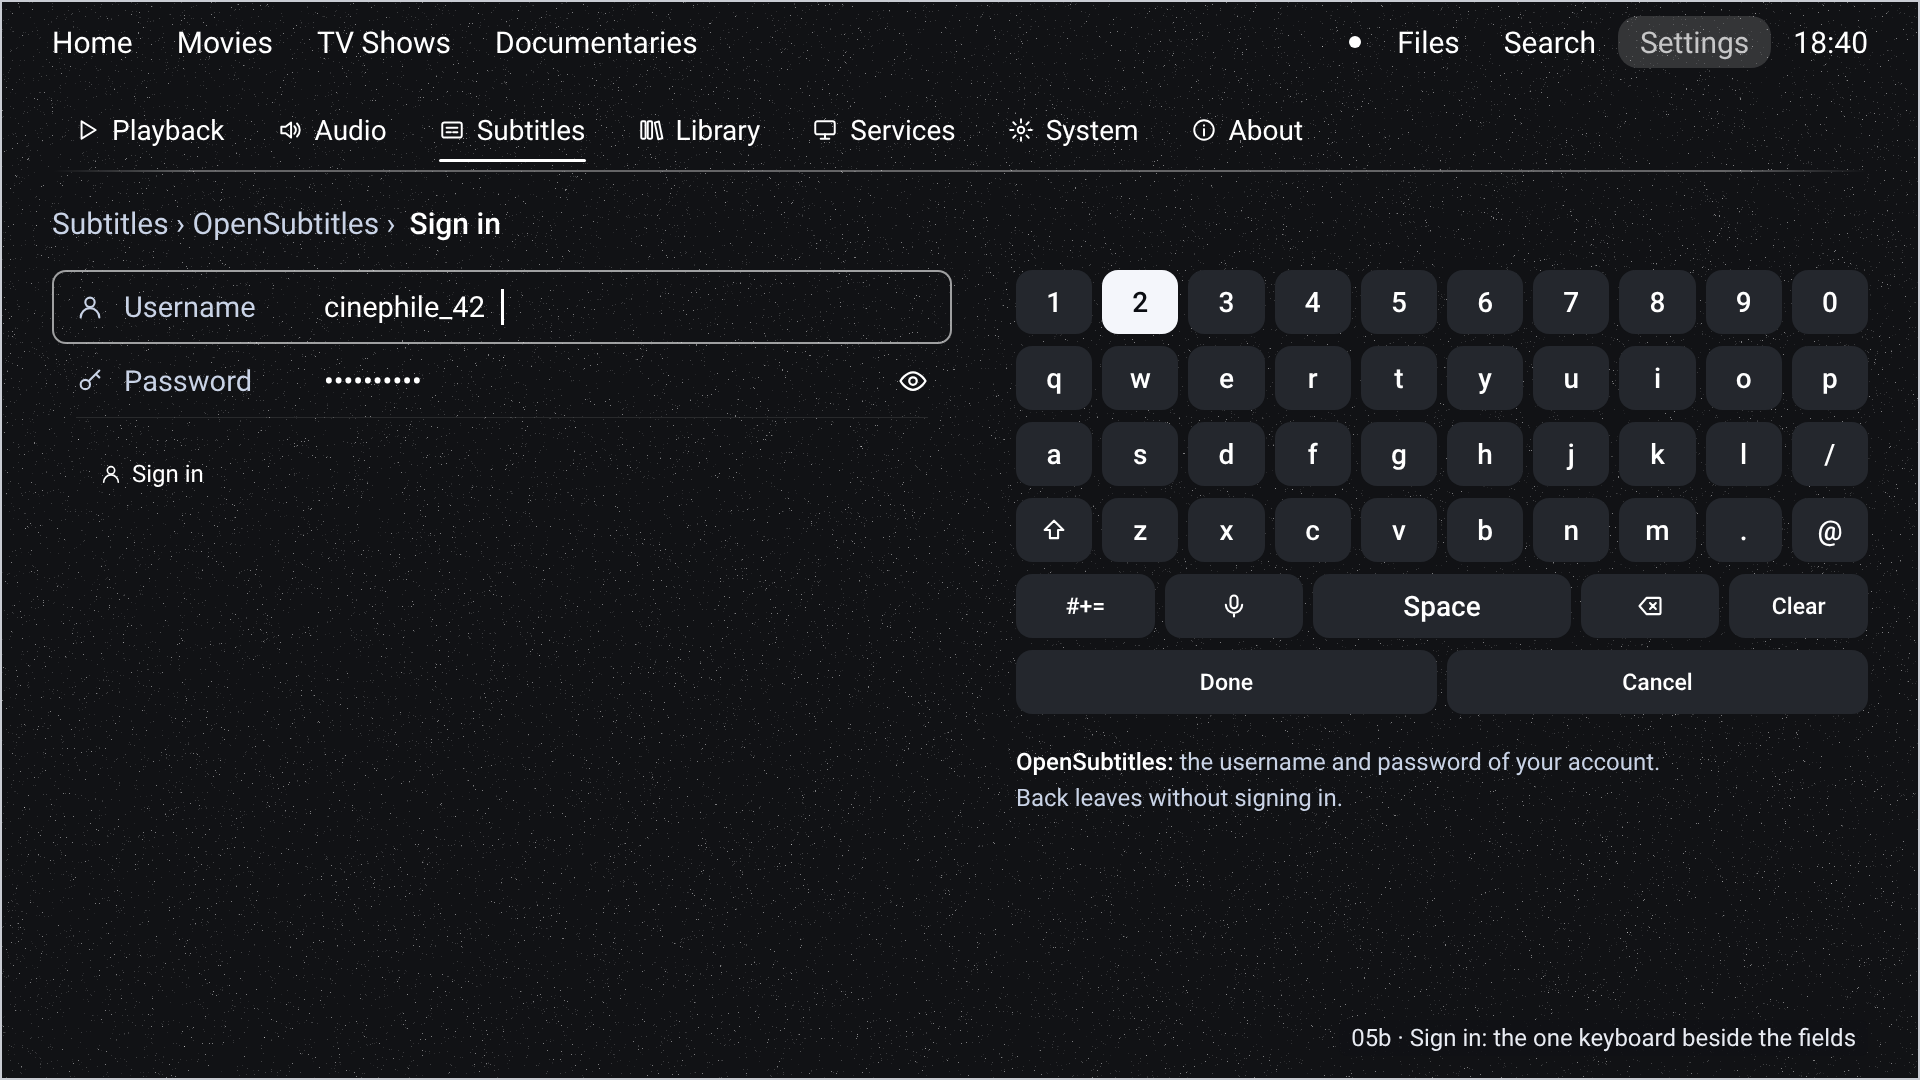
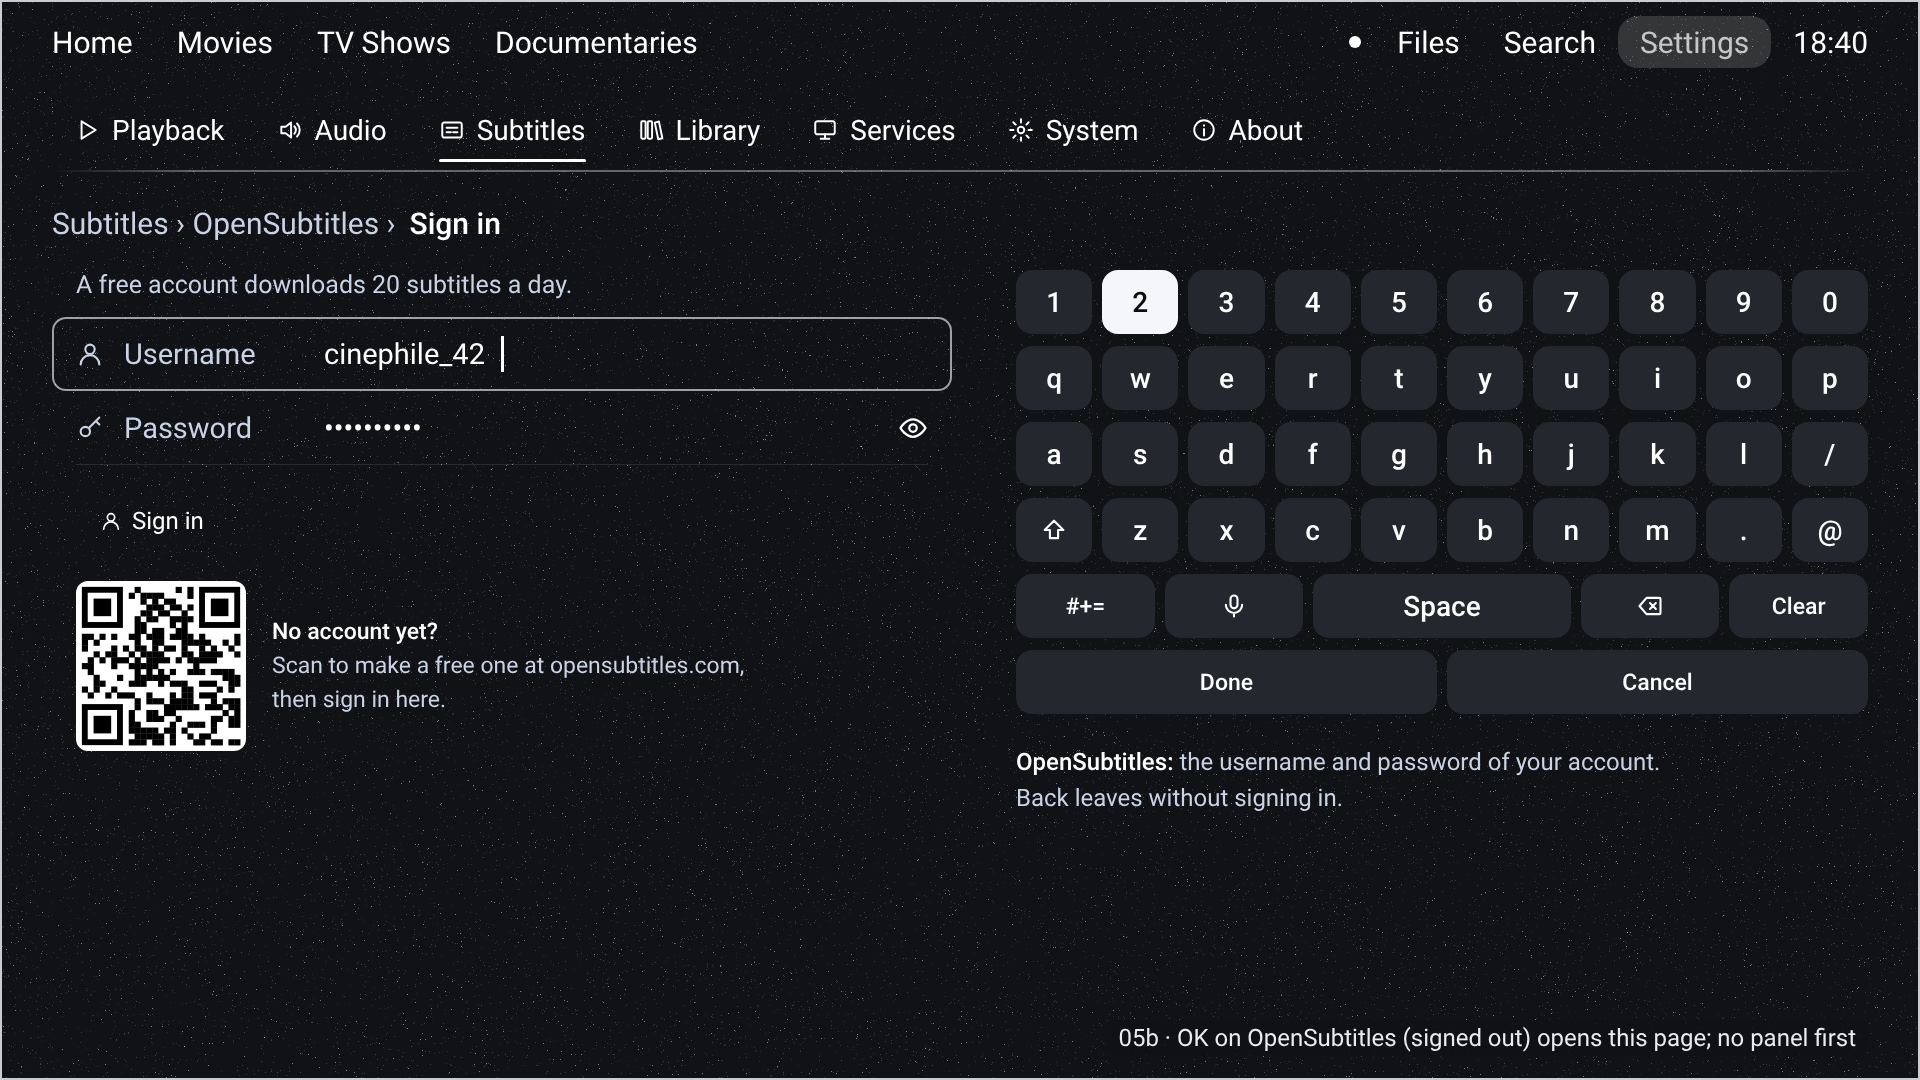
Settings round 2 approved: subtitles on by default, sign-in page without the panel

diff --git a/docs/design/proposals/settings-v3/render.js b/docs/design/proposals/settings-v3/render.js
@@ -393,7 +393,7 @@ function s02() {
 function s03() {
   return page('Subtitles', [
     [I.cc, 'When To Show', [
-      { ic: I.cc, n: 'Show subtitles', l: 'Turn on when a video starts', k: 'sw', v: false },
+      { ic: I.cc, n: 'Show subtitles', l: 'Turn on when a video starts', k: 'sw', v: true },
       { ic: I.full, n: 'Full subtitles in your own language', l: 'When the audio is in your language', k: 'sw', v: true },
       { ic: I.translate, n: 'Also translate other languages', x: 'Experimental', l: 'When no subtitles in your language exist',
         k: 'sw', v: true },
@@ -467,9 +467,12 @@ function s05b() {
     === 'typing' ? '<i class="caret" style="margin-left:4px"></i>' : `<span style="flex:1"></span>${svg(I.eye, 30)}`}</span>
     <i class="ln"></i></div>`).join('');
   return bar() + tabs('Subtitles', null) + `<div class="crumb"><em>Subtitles › OpenSubtitles ›</em>Sign in</div>
-    <div class="form" style="width:900px">${f}<div class="fbtns"><span>${svg(I.person, 22)}Sign in</span></div></div>`
+    <div class="form" style="width:900px"><div style="font-size:25px;color:#c9d3e6;margin:0 0 18px 24px">A free account
+    downloads 20 subtitles a day.</div>${f}<div class="fbtns"><span>${svg(I.person, 22)}Sign in</span></div>
+    <div class="pnl" style="padding:34px 0 0 24px"><div class="qrw" style="margin-top:0">${qr(170, 7)}<div class="qt">
+    <b>No account yet?</b><br>Scan to make a free one at opensubtitles.com,<br>then sign in here.</div></div></div></div>`
     + keyboard('2', '<b>OpenSubtitles:</b> the username and password of your account.<br>Back leaves without signing in.')
-    + '<div class="cap2">05b · Sign in: the one keyboard beside the fields</div>';
+    + '<div class="cap2">05b · OK on OpenSubtitles (signed out) opens this page; no panel first</div>';
 }
 
 function s05c() {

diff --git a/docs/design/pages/SETTINGS.md b/docs/design/pages/SETTINGS.md
@@ -27,6 +27,11 @@ Sync now. Look for new videos (approved 26 Nov) is drawn on Library. Notes go he
 binge-watching); steppers as drawn. **Flags (owner, 27 Nov):** every language in every list (audio, subtitles,
 interface, Details, downloads, the player's track lists) has its own flag; a coding check fails the build if any
 language falls back to the plain globe. RULES §9 updated. The neutral mark is redesigned (see RULES §9).
+**Round 2, Subtitles (owner, 27 Nov): approved with:** **Show subtitles on by default** (out of the box). **No
+OpenSubtitles panel when signed out:** OK on the row ("Not signed in ›") opens the sign-in page straight away
+(`05b` v2): one line "A free account downloads 20 subtitles a day.", Username, Password, Sign in, then the QR code
+with "No account yet? Scan to make a free one at opensubtitles.com, then sign in here."; frame `05` is dropped.
+Signed in (`05c`), languages (`04`) and Font (`06`) as drawn.
 
 ## Whole page
 - A full page with tabs, like Files: no tiles, no panel. **Seven tabs:** Playback · Audio · Subtitles · Library ·
